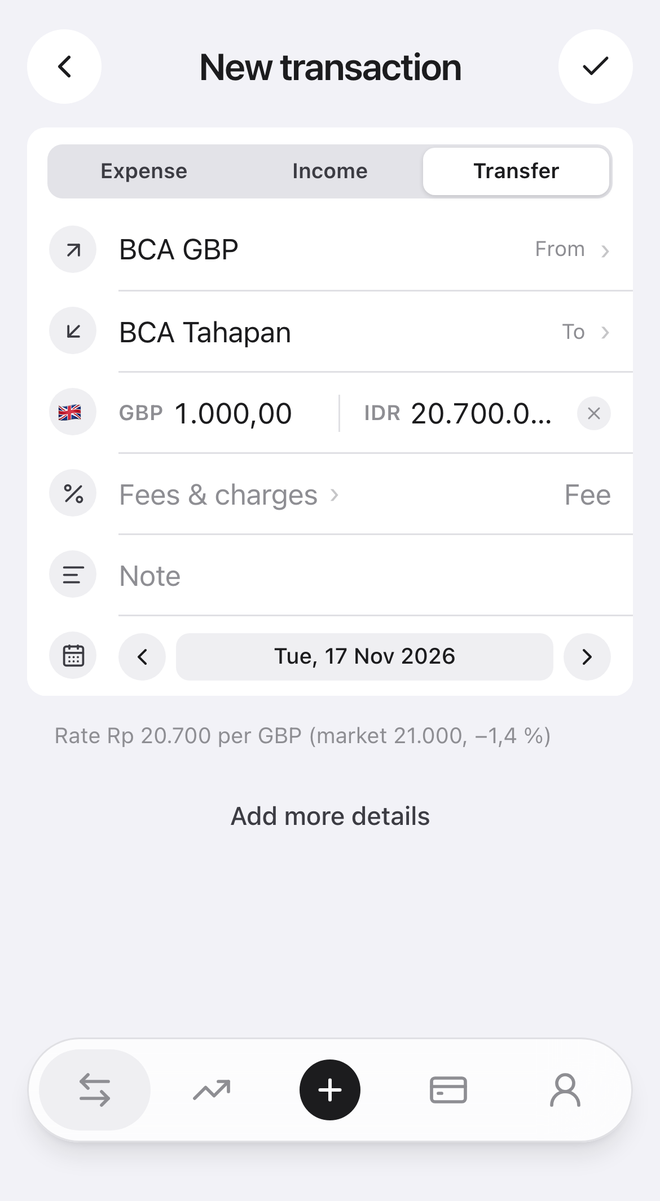
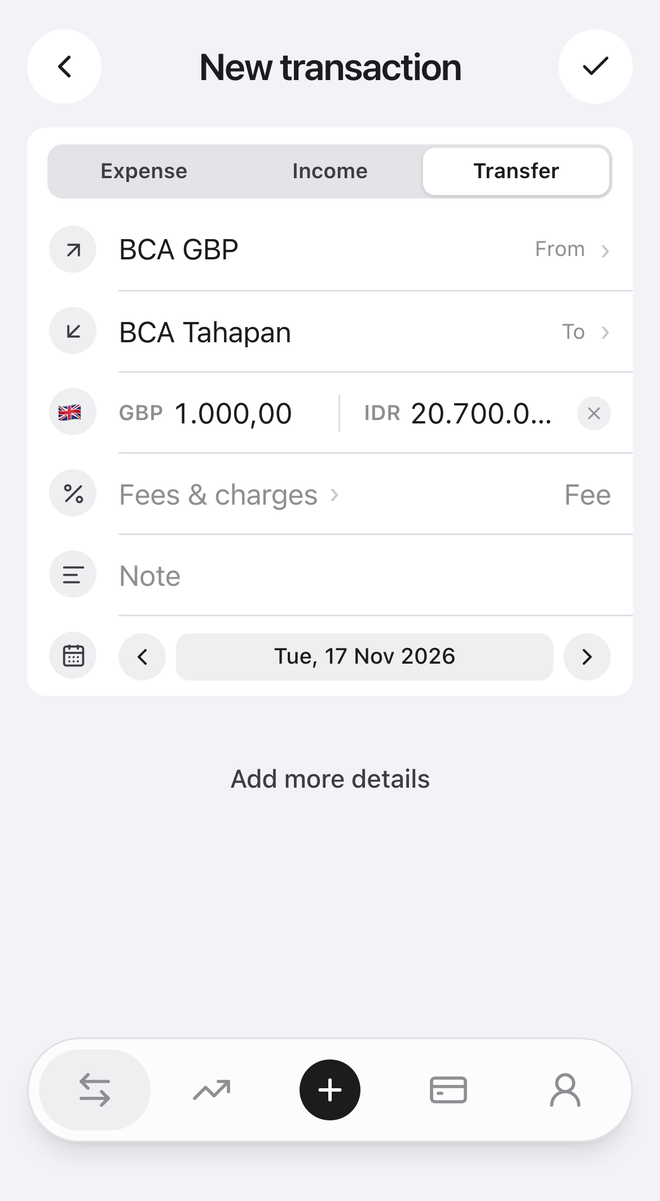
Exchange mockup: no lines while typing a transfer between currencies; the saved receipt shows one Rate row

diff --git a/docs/mockups/2026-11-17-exchange-rate-line.html b/docs/mockups/2026-11-17-exchange-rate-line.html
@@ -1,13 +1,20 @@
 <!doctype html><html><head><meta charset="utf-8"><title>Exchange rate line</title><style>
 body{margin:0;padding:24px;font:15px -apple-system,system-ui,sans-serif;background:#e5e5ea}
 h1{font-size:22px;margin:0 0 4px}.sub{color:#555;margin:0 0 18px;max-width:900px;line-height:1.45}
+h2{font-size:18px;margin:28px 0 10px}
 .row{display:flex;gap:24px;flex-wrap:wrap}.col{width:330px}.cap{font-weight:700;margin:0 0 4px}.note{font-size:13px;color:#555;margin:0 0 10px;min-height:36px;line-height:1.4}
 img{width:330px;border-radius:24px;box-shadow:0 1px 3px rgba(0,0,0,.15);display:block}
 .lab{display:inline-block;font-size:10px;font-weight:800;color:#fff;border-radius:4px;padding:1px 6px;margin-right:6px;vertical-align:2px}.t{background:#8e8e93}.n{background:#1a7f37}
 </style></head><body>
-<h1>Transfer GBP → IDR: only the Rate line stays</h1>
-<p class="sub">Invented example: £1.000 from BCA GBP, Rp 20.700.000 into BCA Tahapan. The grey lines sit under the white box, above "Add more details". After: Cost and "Exchange loss … (recorded as spending)" are gone; the Rate line stays, showing BCA's rate against the market. Nothing counts as spending or income; a typed fee in Fees &amp; charges still counts as a fee.</p>
+<h1>Transfer GBP → IDR: no lines while typing, the rate on the saved receipt</h1>
+<p class="sub">Invented example: £1.000 from BCA GBP, Rp 20.700.000 into BCA Tahapan. Nothing counts as spending or income; a fee typed in Fees &amp; charges still counts as a fee. TODAY = real screenshots; AFTER = the same screenshots with the change.</p>
+<h2>1 · New transaction</h2>
 <div class="row">
- <div class="col"><p class="cap"><span class="lab t">TODAY</span>Real app</p><p class="note">Rate · Cost · Exchange loss (recorded as spending)</p><img src="exchange/today-transfer.png"></div>
- <div class="col"><p class="cap"><span class="lab n">AFTER</span>Build 144</p><p class="note">Rate only</p><img src="exchange/after-transfer.png"></div>
+ <div class="col"><p class="cap"><span class="lab t">TODAY</span>While typing</p><p class="note">Rate · Cost · Exchange loss (recorded as spending) under the box.</p><img src="exchange/today-transfer.png"></div>
+ <div class="col"><p class="cap"><span class="lab n">AFTER</span>While typing</p><p class="note">No lines at all.</p><img src="exchange/after-transfer.png"></div>
+</div>
+<h2>2 · The saved transfer's receipt</h2>
+<div class="row">
+ <div class="col"><p class="cap"><span class="lab t">TODAY</span>Receipt</p><p class="note">Cost "at the withdrawal rate" and Withdrawn "From the 17 Nov withdrawal".</p><img src="exchange/today-receipt.png"></div>
+ <div class="col"><p class="cap"><span class="lab n">AFTER</span>Receipt</p><p class="note">One Rate row: the rate received, and how far it was from the market that day. Cost and Withdrawn go.</p><img src="exchange/after-receipt.png"></div>
 </div></body></html>
